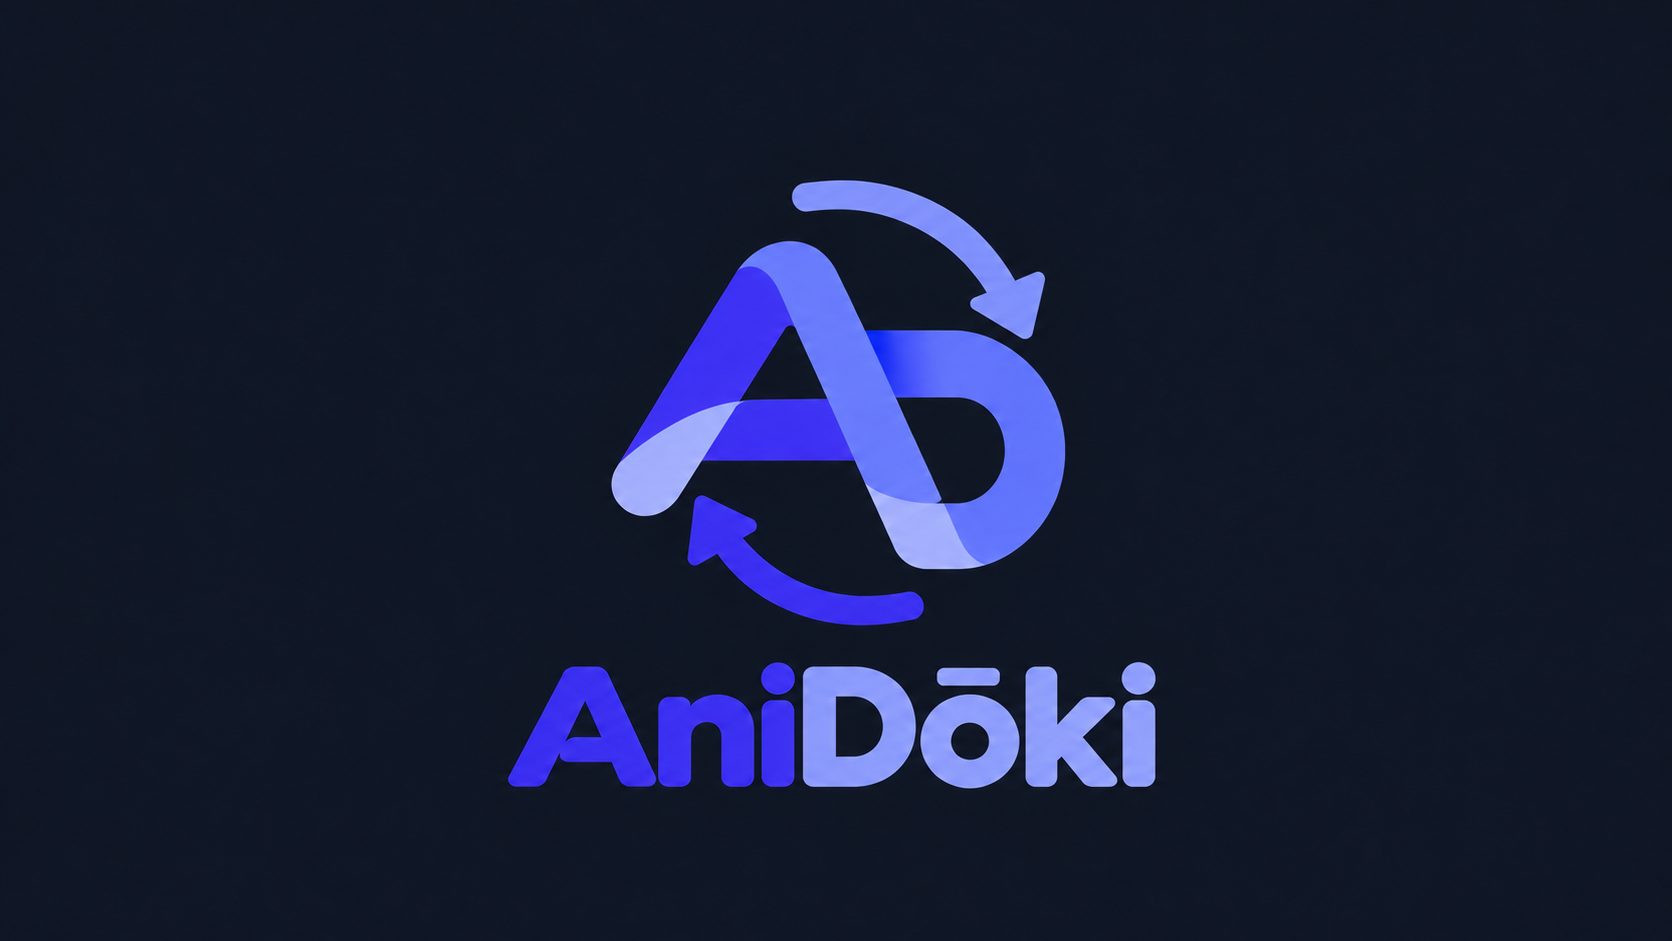
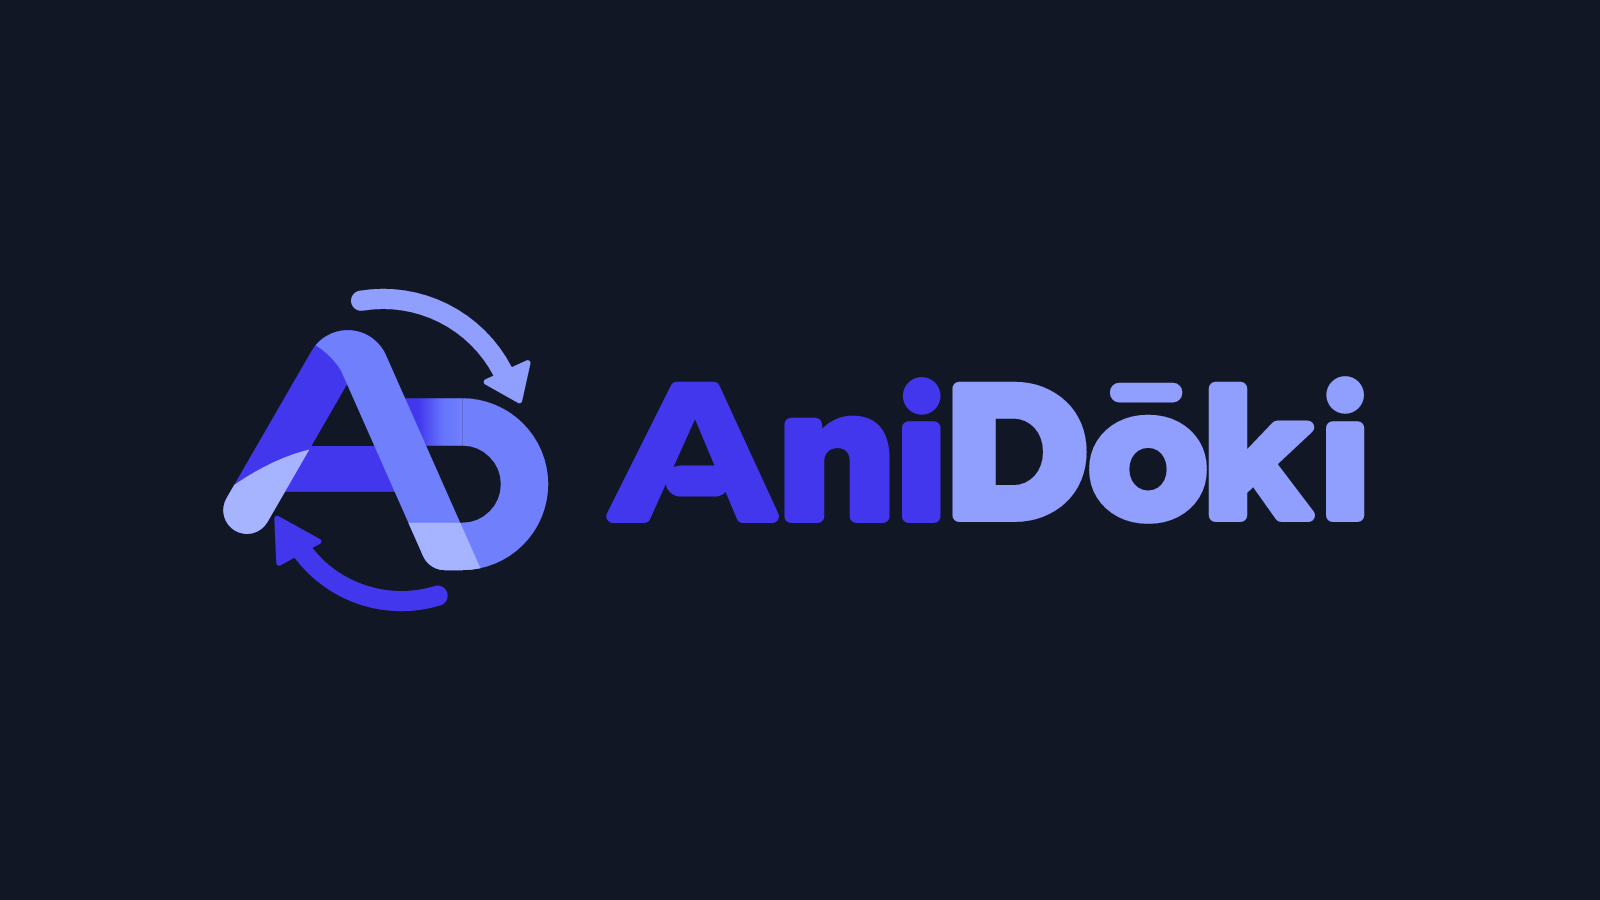
fix: use the new branding across plugin surfaces

Changed region(s): [[0.125, 0.1867, 0.875, 0.84]]

diff --git a/jellyfin-anidoki/Configuration/ConfigPageUser.html b/jellyfin-anidoki/Configuration/ConfigPageUser.html
@@ -1,6 +1,6 @@
 <div id="TemplateConfigPage" data-role="page" class="page type-interior">
     <div data-role="content"><div class="anidoki doki-user-page">
-        <div class="doki-topbar"><div class="doki-identity"><svg class="doki-logo" viewBox="0 0 24 24" fill="currentColor" aria-hidden="true"><path d="M12 4V1L8 5l4 4V6c3.31 0 6 2.69 6 6 0 1.01-.25 1.97-.7 2.8l1.46 1.46C19.54 15.03 20 13.57 20 12c0-4.42-3.58-8-8-8zm0 14c-3.31 0-6-2.69-6-6 0-1.01.25-1.97.7-2.8L5.24 7.74C4.46 8.97 4 10.43 4 12c0 4.42 3.58 8 8 8v3l4-4-4-4v3z"/></svg><span>AniDōki</span></div><div class="doki-actions" id="trackingSummary"></div></div>
+        <div class="doki-topbar"><div class="doki-identity"><svg xmlns="http://www.w3.org/2000/svg" viewBox="0 0 256 256" class="doki-logo" aria-hidden="true"><g transform="translate(-128.49 -79.08) scale(0.39901)"><path fill="#FFFFFF" d="M367.61 602.5 381.07 579.19 514.36 348.33 514.45 348.17C516.51 344.61 518.87 341.22 521.52 338.04C522.92 336.37 524.39 334.75 525.94 333.21C529.76 329.39 533.96 326.04 538.45 323.2C538.72 323.03 538.99 322.86 539.26 322.69C550.56 315.76 563.65 312 577.13 312C593.21 312 608.73 317.35 621.33 327.05C623.78 328.94 626.12 330.99 628.33 333.21C634.17 339.05 638.91 345.79 642.42 353.1L676.26 429.5H775Q804.54 429.5 831.83 440.8Q859.12 452.11 880.01 472.99Q900.89 493.88 912.2 521.17Q923.5 548.46 923.5 578Q923.5 607.54 912.2 634.83Q900.89 662.12 880.01 683.01Q859.12 703.89 831.83 715.2Q819.33 720.37 806.36 723.18Q791.01 726.5 775 726.5H744.96L744.83 726.5Q741.07 726.5 737.43 725.84Q733.42 725.1 729.57 723.56Q725.81 722.05 722.46 719.87Q719.1 717.69 716.19 714.84Q713.3 712.02 711.05 708.75Q708.92 705.66 707.37 702.18L707.35 702.13L707.34 702.11L707.27 701.95L681.82 644.5L658.12 591H468.94L438.63 643.5Q434.55 650.56 428.08 655.53Q421.61 660.49 413.73 662.6Q405.85 664.71 397.77 663.65Q389.68 662.58 382.62 658.51Q375.56 654.43 370.59 647.96Q365.63 641.49 363.52 633.61Q361.4 625.73 362.47 617.65Q363.53 609.58 367.6 602.52ZM597.44 243.86Q636.51 237.39 675.67 243.31Q714.83 249.22 750.24 266.94Q785.66 284.66 813.88 312.45Q842.09 340.24 860.34 375.39Q860.46 375.62 860.58 375.86L885.84 364.22Q887.72 363.35 889.66 364.07Q891.61 364.79 892.47 366.67Q893.18 368.2 892.81 369.85L878.46 434.42Q878.01 436.44 876.27 437.55Q874.52 438.67 872.5 438.22Q871.77 438.06 871.13 437.69L814.53 405.8Q812.72 404.79 812.16 402.79Q811.61 400.8 812.62 398.99Q813.42 397.58 814.89 396.91L828.76 390.52Q813.18 360.89 789.32 337.39Q765.05 313.48 734.58 298.24Q704.12 283 670.44 277.91Q636.76 272.83 603.15 278.39Q599.72 278.96 596.33 278.17Q592.94 277.38 590.11 275.35Q587.28 273.33 585.44 270.37Q583.6 267.42 583.03 263.98Q582.46 260.55 583.25 257.16Q584.04 253.77 586.06 250.94Q588.09 248.11 591.05 246.27Q594 244.43 597.44 243.86ZM737.38 787.42Q703.55 797.76 668.18 797.49Q632.8 797.23 599.13 786.38Q565.46 775.54 536.58 755.1Q507.71 734.67 486.28 706.52Q485.73 705.81 485.26 705.05L461.03 718.19Q459.21 719.17 457.23 718.58Q455.24 717.99 454.26 716.17Q453.71 715.16 453.66 714.01L450.38 637.89Q450.29 635.82 451.69 634.3Q453.09 632.77 455.16 632.68Q456.56 632.62 457.79 633.3L529 672.58Q530.81 673.58 531.38 675.57Q531.96 677.56 530.96 679.38Q530.25 680.66 528.96 681.36L516.35 688.2Q553.09 734.78 609.86 753.07Q668.37 771.92 727.15 753.94Q730.48 752.93 733.94 753.26Q737.41 753.59 740.48 755.23Q743.55 756.86 745.77 759.55Q747.98 762.23 749 765.56Q750.02 768.89 749.68 772.36Q749.35 775.82 747.71 778.9Q746.08 781.97 743.39 784.18Q740.71 786.4 737.38 787.42ZM775 511.5H712.59L771.51 644.5H775Q802.55 644.5 822.02 625.02Q841.5 605.55 841.5 578Q841.5 550.45 822.02 530.98Q802.55 511.5 775 511.5ZM575.98 405.59 514.55 512H623.12Z"/></g></svg><span>AniDōki</span></div><div class="doki-actions" id="trackingSummary"></div></div>
         <header class="doki-header"><div><h1>Tracking Settings</h1><p class="doki-help">Choose the accounts and libraries that follow what you watch.</p></div></header>
         <p class="doki-status" data-page-status role="status">Loading your settings…</p>
         <form id="TemplateConfigForm" hidden>

diff --git a/jellyfin-anidoki/Configuration/ConfigPage.html b/jellyfin-anidoki/Configuration/ConfigPage.html
@@ -2,7 +2,7 @@
     <div data-role="content">
         <div class="anidoki">
             <div class="doki-topbar">
-                <div class="doki-identity"><svg class="doki-logo" viewBox="0 0 24 24" fill="currentColor" aria-hidden="true"><path d="M12 4V1L8 5l4 4V6c3.31 0 6 2.69 6 6 0 1.01-.25 1.97-.7 2.8l1.46 1.46C19.54 15.03 20 13.57 20 12c0-4.42-3.58-8-8-8zm0 14c-3.31 0-6-2.69-6-6 0-1.01.25-1.97.7-2.8L5.24 7.74C4.46 8.97 4 10.43 4 12c0 4.42 3.58 8 8 8v3l4-4-4-4v3z"/></svg><span>AniDōki</span></div>
+                <div class="doki-identity"><svg xmlns="http://www.w3.org/2000/svg" viewBox="0 0 256 256" class="doki-logo" aria-hidden="true"><g transform="translate(-128.49 -79.08) scale(0.39901)"><path fill="#FFFFFF" d="M367.61 602.5 381.07 579.19 514.36 348.33 514.45 348.17C516.51 344.61 518.87 341.22 521.52 338.04C522.92 336.37 524.39 334.75 525.94 333.21C529.76 329.39 533.96 326.04 538.45 323.2C538.72 323.03 538.99 322.86 539.26 322.69C550.56 315.76 563.65 312 577.13 312C593.21 312 608.73 317.35 621.33 327.05C623.78 328.94 626.12 330.99 628.33 333.21C634.17 339.05 638.91 345.79 642.42 353.1L676.26 429.5H775Q804.54 429.5 831.83 440.8Q859.12 452.11 880.01 472.99Q900.89 493.88 912.2 521.17Q923.5 548.46 923.5 578Q923.5 607.54 912.2 634.83Q900.89 662.12 880.01 683.01Q859.12 703.89 831.83 715.2Q819.33 720.37 806.36 723.18Q791.01 726.5 775 726.5H744.96L744.83 726.5Q741.07 726.5 737.43 725.84Q733.42 725.1 729.57 723.56Q725.81 722.05 722.46 719.87Q719.1 717.69 716.19 714.84Q713.3 712.02 711.05 708.75Q708.92 705.66 707.37 702.18L707.35 702.13L707.34 702.11L707.27 701.95L681.82 644.5L658.12 591H468.94L438.63 643.5Q434.55 650.56 428.08 655.53Q421.61 660.49 413.73 662.6Q405.85 664.71 397.77 663.65Q389.68 662.58 382.62 658.51Q375.56 654.43 370.59 647.96Q365.63 641.49 363.52 633.61Q361.4 625.73 362.47 617.65Q363.53 609.58 367.6 602.52ZM597.44 243.86Q636.51 237.39 675.67 243.31Q714.83 249.22 750.24 266.94Q785.66 284.66 813.88 312.45Q842.09 340.24 860.34 375.39Q860.46 375.62 860.58 375.86L885.84 364.22Q887.72 363.35 889.66 364.07Q891.61 364.79 892.47 366.67Q893.18 368.2 892.81 369.85L878.46 434.42Q878.01 436.44 876.27 437.55Q874.52 438.67 872.5 438.22Q871.77 438.06 871.13 437.69L814.53 405.8Q812.72 404.79 812.16 402.79Q811.61 400.8 812.62 398.99Q813.42 397.58 814.89 396.91L828.76 390.52Q813.18 360.89 789.32 337.39Q765.05 313.48 734.58 298.24Q704.12 283 670.44 277.91Q636.76 272.83 603.15 278.39Q599.72 278.96 596.33 278.17Q592.94 277.38 590.11 275.35Q587.28 273.33 585.44 270.37Q583.6 267.42 583.03 263.98Q582.46 260.55 583.25 257.16Q584.04 253.77 586.06 250.94Q588.09 248.11 591.05 246.27Q594 244.43 597.44 243.86ZM737.38 787.42Q703.55 797.76 668.18 797.49Q632.8 797.23 599.13 786.38Q565.46 775.54 536.58 755.1Q507.71 734.67 486.28 706.52Q485.73 705.81 485.26 705.05L461.03 718.19Q459.21 719.17 457.23 718.58Q455.24 717.99 454.26 716.17Q453.71 715.16 453.66 714.01L450.38 637.89Q450.29 635.82 451.69 634.3Q453.09 632.77 455.16 632.68Q456.56 632.62 457.79 633.3L529 672.58Q530.81 673.58 531.38 675.57Q531.96 677.56 530.96 679.38Q530.25 680.66 528.96 681.36L516.35 688.2Q553.09 734.78 609.86 753.07Q668.37 771.92 727.15 753.94Q730.48 752.93 733.94 753.26Q737.41 753.59 740.48 755.23Q743.55 756.86 745.77 759.55Q747.98 762.23 749 765.56Q750.02 768.89 749.68 772.36Q749.35 775.82 747.71 778.9Q746.08 781.97 743.39 784.18Q740.71 786.4 737.38 787.42ZM775 511.5H712.59L771.51 644.5H775Q802.55 644.5 822.02 625.02Q841.5 605.55 841.5 578Q841.5 550.45 822.02 530.98Q802.55 511.5 775 511.5ZM575.98 405.59 514.55 512H623.12Z"/></g></svg><span>AniDōki</span></div>
                 <div class="doki-actions" id="configurationSummary"></div>
             </div>
             <header class="doki-header">

diff --git a/jellyfin-anidoki/Notifications/Discord/DiscordEmbedBuilder.cs b/jellyfin-anidoki/Notifications/Discord/DiscordEmbedBuilder.cs
@@ -4,7 +4,7 @@ using System.Text;
 namespace jellyfin_anidoki.Notifications.Discord;
 
 public static class DiscordEmbedBuilder {
-    public const string AvatarUrl = "https://raw.githubusercontent.com/traejiik/jellyfin-anidoki/2c4d36d516dfa2ea4540f63bc9953ef9c50b6238/docs/assets/anidoki-logo.png";
+    public const string AvatarUrl = "https://raw.githubusercontent.com/traejiik/jellyfin-anidoki/development/docs/assets/anidoki-logo.png?v=173e675a742d";
     public const string JellyfinLogoUrl = "https://raw.githubusercontent.com/jellyfin/jellyfin-ux/master/logos/PNG-4x/jellyfin-icon--color-on-dark.png";
     internal static string Limit(string? value, int max) => string.Concat((value ?? "").EnumerateRunes().Take(max).Select(r => r.ToString()));
     internal static string Escape(string? value) => string.Concat((value ?? "").Where(c => !char.IsControl(c))).Replace("\\", "\\\\").Replace("*", "\\*").Replace("_", "\\_").Replace("`", "\\`").Replace("[", "\\[").Replace("]", "\\]").Replace("@", "@\u200b");
